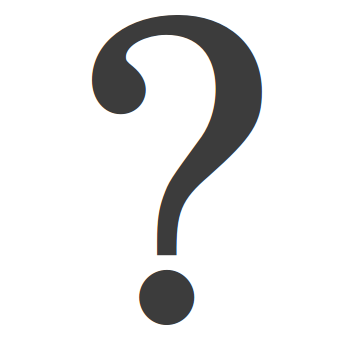
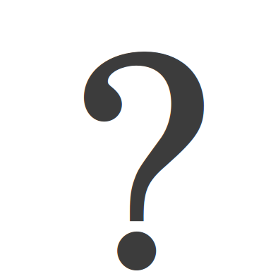
few bug fixes.  Added bar infos

Changed region(s): [[0.2571, 0.0286, 0.7714, 0.9714]]

diff --git a/war/js/blabzilla.js b/war/js/blabzilla.js
@@ -1,4 +1,5 @@
-var isPortraitMode = true;  // vs landscape
+var encodeInfos = "";
+var decodeInfos = "";
 var actualBarcodeData = null;
 var actualBarcodeType = null;
 var actualBarcodeOptions = "";
@@ -8,20 +9,45 @@ function init() {
    setInterval("encodeIfNeeded()", 60);
    setInstallButton("btnInstall");
    document.getElementById('fdflt').click();
-   fitImages();
+   fitImage(document.getElementById('barImageOut'));
    window.addEventListener("resize", fitImages, false);
+   document.getElementById("p1").addEventListener(
+      'transitionend',
+      function(event) {
+         p1Expanded(event.target.attributes["aria-expanded"].value == "true");
+//       alert(
+//          "Finished transition! " + event.target.id +
+//          " " + event.target.attributes["aria-expanded"].value +
+//          " " + document.getElementById("p1").style.zIndex +
+//          " " + event.propertyName
+//       );
+      },
+      false
+   );
 }
 
-function fitImages() {
-   // workaround, until "object-fit:contain;" gets implemented
-   var elt = document.getElementById('main');
-   var style = "width:100%;height:auto;";
-   if ((elt.offsetHeight > elt.offsetWidth) != isPortraitMode) {
-      var style = isPortraitMode? "height:100%;width:auto;":"height:auto;width:100%;"
-      document.getElementById('barImageIn').setAttribute('style', style);
-      document.getElementById('barImageOut').setAttribute('style', style);
-      isPortraitMode = !isPortraitMode;
+function p1Expanded(isExpanded) {
+   var style = document.getElementById("btnSecond").style;
+   if (isExpanded) {
+      style.display ="";
+   }else {
+      style.display = "none";
    }
+}
+
+function fitImages(img) {
+   // workaround, until "object-fit:contain;" gets implemented
+   fitImage(document.getElementById('barImageIn'));
+   fitImage(document.getElementById('barImageOut'));
+}
+function fitImage(img) {
+   var elt = document.getElementById("p1");
+   if ((elt.offsetHeight * img.offsetWidth)<(img.offsetHeight * elt.offsetWidth)) {
+      s = "height:100%";
+   }else {
+      s = "width:100%";
+   }
+   img.setAttribute("style", s);
 }
 
 function encodeIfNeeded() {
@@ -61,7 +87,7 @@ function encodeIfNeeded() {
          //   document.getElementById('headers').innerHTML = this.getAllResponseHeaders();
          // }
          if (this.readyState == 4) {    // DONE is 4
-            // document.getElementById('barInfos').innerHTML = this.getResponseHeader("Jaxo-Infos");
+            encodeInfos = this.getResponseHeader("Jaxo-Infos");
             if (this.status != 200) {
                document.getElementById('barImageOut').src = "images/unknown.png";
             }else {
@@ -94,7 +120,13 @@ function encodeIfNeeded() {
 
 function pickAndDecodeImage()
 {
-   var a = new MozActivity({ name: "pick", data: {type: "image/jpeg"}});
+   try {
+      var a = new MozActivity({ name: "pick", data: {type: "image/jpeg"}});
+   }catch (err) {
+      decodeInfos = "Pick Intent Failure";
+      document.getElementById('imgContents').innerHTML = "** Cannot Pick **";
+      return;
+   }
    a.onsuccess = function(e) {
      var request = new XMLHttpRequest();
      request.open(
@@ -112,22 +144,22 @@ function pickAndDecodeImage()
      img.src = url;
      img.onload = function() { URL.revokeObjectURL(url); };
    };
-   a.onerror = function() { alert('Failure picking photo'); };
+   a.onerror = function() { alert('Failure at picking an image'); };
 }
 
 function onImageDecoded() {
    switch (this.readyState) {
-// case 1: // OPENED
+   case 1: // OPENED
 //    document.getElementById("loading").style.visibility='visible';
 //    document.getElementById('imgSource').innerHTML = "";
-//    document.getElementById('imgInfos').innerHTML = "";
+      decodeInfos = "";
 //    document.getElementById('imgContents').innerHTML = "";
 //    document.getElementById('imgBarType').innerHTML = "";
 //    break;
    case 4: // DONE
 //    document.getElementById("loading").style.visibility='hidden';
 //    document.getElementById('imgSource').innerHTML = this.source;
-//    document.getElementById('imgInfos').innerHTML = this.getResponseHeader("Jaxo-Infos");
+      decodeInfos = this.getResponseHeader("Jaxo-Infos");
       if (this.status == 200) {
          document.getElementById('imgContents').innerHTML = this.responseText;
 //       document.getElementById('imgBarType').innerHTML = this.getResponseHeader("Jaxo-Symbo");
@@ -155,12 +187,21 @@ function onImageDecoded() {
 }
 
 function revealOrNot() {
-   var style = document.getElementById('imgBoxOut').style;
-   if (style.zIndex == -1) {   // Edit -> Reveal
+   var style = document.getElementById('boxImageOut').style;
+   if (style.zIndex == 2) {    // Reveal -> Edit
+      document.getElementById("btnSecond").innerHTML = "Reveal";
+      style.zIndex = 0;
+   }else {                     // Edit -> Reveal
       document.getElementById("btnSecond").innerHTML = "Edit";
       style.zIndex = 2;
-   }else {                     // Reveal -> Edit
-      document.getElementById("btnSecond").innerHTML = "Reveal";
-      style.zIndex = -1;
    }
 }
+
+function showInfos() {
+   if (document.getElementById('p1').getAttribute("aria-expanded") == "true") {
+      alert(encodeInfos);
+   }else {
+      alert(decodeInfos);
+   }
+}
+

diff --git a/war/index.html b/war/index.html
@@ -9,46 +9,47 @@
 <TITLE>BlabZilla</title>
 </HEAD>
 
-<BODY>
+<BODY onload="init();">
    <HEADER>
      <DIV id="btnMain" onclick="toggleSidebarView();"><IMG id="btnMainImage" style="background-image:url(style/images/menu.png)"/></DIV>
      <TABLE><TR>
         <TD id="btnInstall">Install</TD>
-        <TD id="btnSecond" onclick="revealOrNot()">Reveal</TD>
+        <TD id="btnThird" onclick="showInfos();"><IMG src="style/images/info.png"></TD>
+        <TD id="btnSecond" onclick="revealOrNot();">Reveal</TD>
      </TR></TABLE>
      <H1>BlabZilla</H1>
    </HEADER>
    <DIV id="main">
       <DIV id="p1" class="body">
-         <TABLE class="imgbox" id='imgBoxOut'><TR><TD>
+         <DIV class="imgbox" id="boxImageOut">
             <IMG alt="Bar Image" id="barImageOut" src="images/unknown.png"/>
-         </TR></TD></TABLE>
-         <FORM name = "encodeForm" style="height:100%">
+         </DIV>
+         <FORM name = "encodeForm" style="height:100%;z-index:1;">
             <INPUT type="hidden" name="TYP" value="1"/>
             <INPUT type="hidden" name="SIZ" value="M"/>
             <TEXTAREA name="KEY" placeholder="Enter your blab&hellip;"></TEXTAREA>
          </FORM>
       </DIV>
       <DIV class="body" id="p2">
-         <TABLE class="imgbox" id='imgBoxIn'><TR><TD>
-            <IMG alt="Bar Image" id="barImageIn" src="images/unknown.png"/>
-         </TR></TD></TABLE>
+         <DIV class="imgbox" style="z-index:-1">
+            <IMG
+               alt="Bar Image" id="barImageIn" src="images/unknown.png"
+               onload="fitImage(this);"
+            />
+         </DIV>
          <FORM name = "decodeForm">
             <INPUT type="hidden" name="TYP" value="1"/>  <!-- 1,2,3 (DM,Qr,PDF) or 0 (all) -->
             <INPUT type="hidden" name="PPC" value="P0"/> <!-- Postprocess: none -->
          </FORM>
-         <TEXTAREA id="imgContents"></TEXTAREA>
-      </DIV>
-      <DIV class="body" id="p3">
-         <SPAN style="float:right;text-align:right;font-size:5rem">Sent!</SPAN>
+         <TEXTAREA id="imgContents" disabled="disabled"></TEXTAREA>
       </DIV>
    </DIV>
    <DIV id="sidebar" class="body">
       <UL class="menuList" onclick="menuListClicked(event);">
         <LI role="listbox">Encode in &hellip;
            <UL role="radiogroup">
-              <LI>DataMatrix</LI>
-              <LI aria-selected="true">QrCode</LI>
+              <LI aria-selected="true">DataMatrix</LI>
+              <LI>QrCode</LI>
               <LI>PDF 417</LI>
               <LI>Aztec</LI>
               <LI>EAN 13</LI>
@@ -95,9 +96,7 @@
       <TABLE><TR role="radiogroup" onclick="menuListClicked(event);">
       <TD aria-owns="p1" id="fdflt">Encode</TD>
       <TD aria-owns="p2" onclick="pickAndDecodeImage();">Decode</TD>
-      <TD aria-owns="p3"><IMG src="style/images/send.png"></TD>
       </TR></TABLE>
    </FOOTER>
-   <SCRIPT>init();</SCRIPT>
 </BODY>
 </HTML>

diff --git a/war/style/fxosstub.css b/war/style/fxosstub.css
@@ -110,7 +110,7 @@ header td:active {
   margin-left: 1rem;
   margin-right: 1rem;
   opacity: 0;
-  transition: linear 0.2s;
+  transition: opacity linear 0.2s;
   z-index: -1;
 }
 
@@ -381,16 +381,22 @@ li[aria-selected=true], li[role=listbox] {
   padding: 0.5rem 1rem;
   /* border: 1px solid #D1D1D1; */
   border: none;
-  background-color: rgba(255, 255, 255, 0.85);
+  background-color: rgba(255, 255, 255, 0.8);
   border-radius: 0.5rem 0.5rem 0.5rem 0.5rem;
   font-family: "Open Sans",Sans-serif;
   font-size: 1.6rem;
 }
 
+.body textarea[disabled] {
+   color: #016696;
+}
+
 .imgbox {
   background-color:#fff;
+  -moz-box-sizing: border-box;
+  -webkit-box-sizing: border-box;
+  display: block;
   position:absolute;
-  z-index:-1;
   overflow: hidden;
   border: 1px solid #D1D1D1;
   border-radius: 0.5rem 0.5rem 0.5rem 0.5rem;
@@ -398,19 +404,15 @@ li[aria-selected=true], li[role=listbox] {
   height: 100%;
   width: 100%;
 }
-.imgbox tr td {
-   position: absolute;
-   top: 0;
-   bottom: 0;
-   left: 0;
-   right: 0;
-}
-.imgbox tr td img {
-   width: 100%;
-   /* height:100%;                 */
-   /* object-fit:contain;          */
-   /* -moz-object-fit:contain;     */
-   /* -ms-object-fit:contain;      */
-   /* -o-object-fit:contain;       */
-   /* -webkit-object-fit:contain;  */
-}
+
+/* Alas, FF 17 does not implement it yet...   */
+/* So, I did a JS work-around: fitImages()    */
+/* .imgbox tr td img {                        */
+/*    width: 100%;                            */
+/*    height:100%;                            */
+/*    object-fit:contain;                     */
+/*    -moz-object-fit:contain;                */
+/*    -ms-object-fit:contain;                 */
+/*    -o-object-fit:contain;                  */
+/*    -webkit-object-fit:contain;             */
+/* }                                          */
